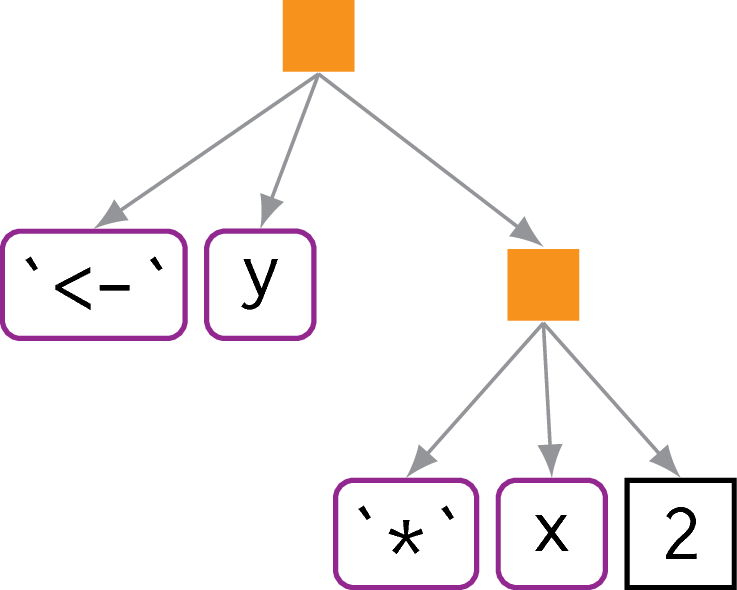
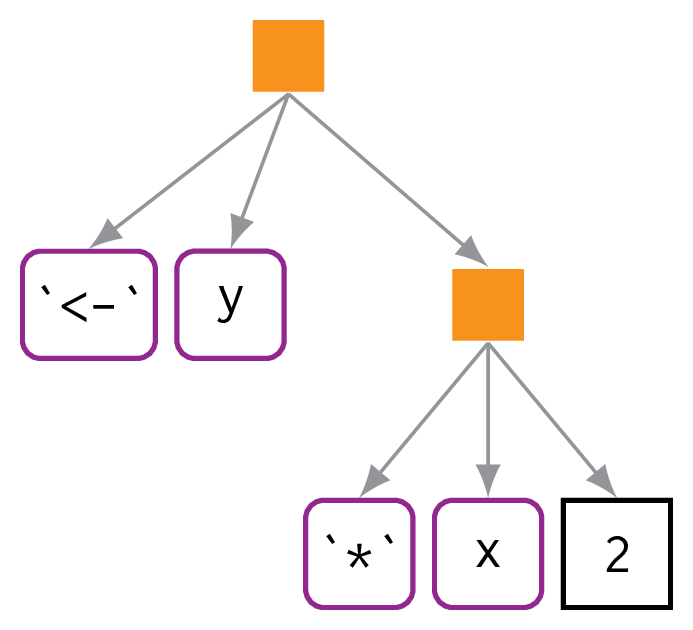
Make expr2tikz overwrite files and font size smaller
Add overwrite = TRUE arg to file.copy in expr2tikz.
Make font \scriptsize in ast-template.tex.
Rerender README.

Changed region(s): [[0.0, 0.0, 1.0, 1.0], [0.303, 0.2136, 0.3333, 0.2441]]

diff --git a/inst/extdata/ast-template.tex b/inst/extdata/ast-template.tex
@@ -6,7 +6,7 @@
 
 \begin{document}
 \begin{tikzpicture}[
-  font=\tt,
+  font=\scriptsize\tt,
   edge from parent/.append style={->,>=latex,Gray},
   every tree node/.style={minimum width=3ex,minimum height=3ex,inner sep=1pt,semithick},
   call/.style={rectangle,fill=BurntOrange,minimum width=2ex,minimum height=2ex},

diff --git a/README.md b/README.md
@@ -22,6 +22,6 @@ expr2tikz(y <- x * 2, filename)
 knitr::include_graphics(filename, dpi = 600)
 ```
 
-<img src="man/figures/README-expr2tikz.png" width="30%" style="display: block; margin: auto;" />
+<img src="man/figures/README-expr2tikz.png" width="50%" />
 
 More functions and examples to come...
